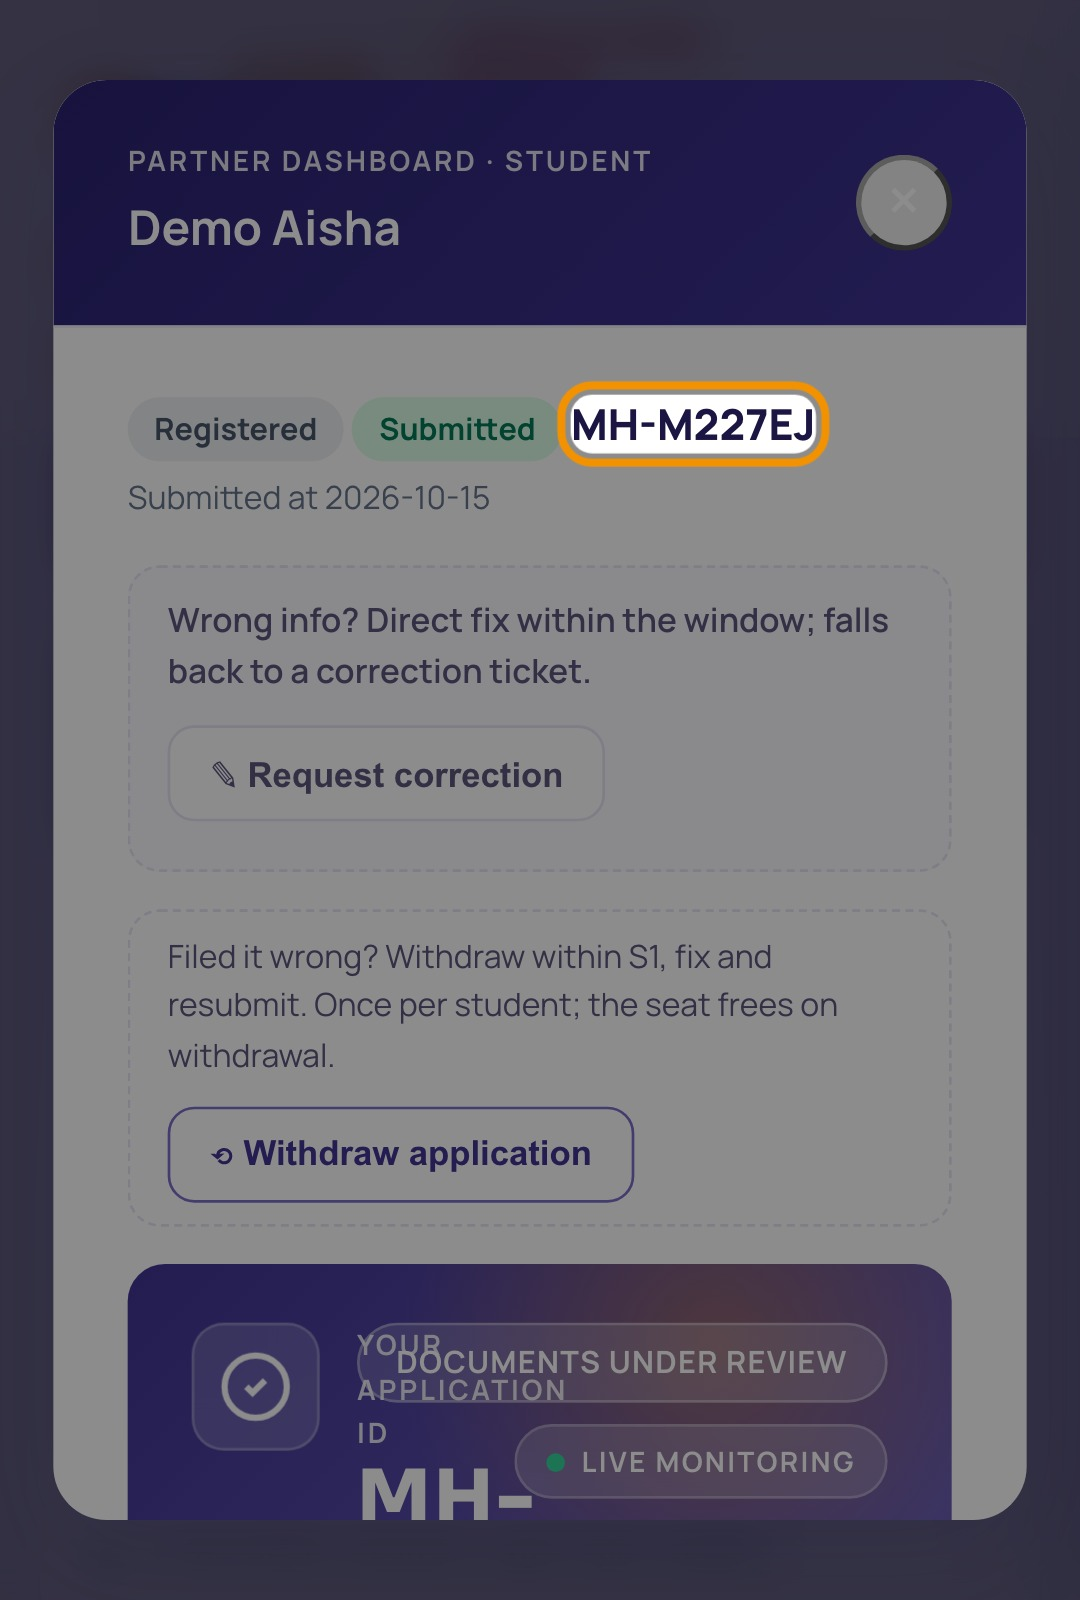
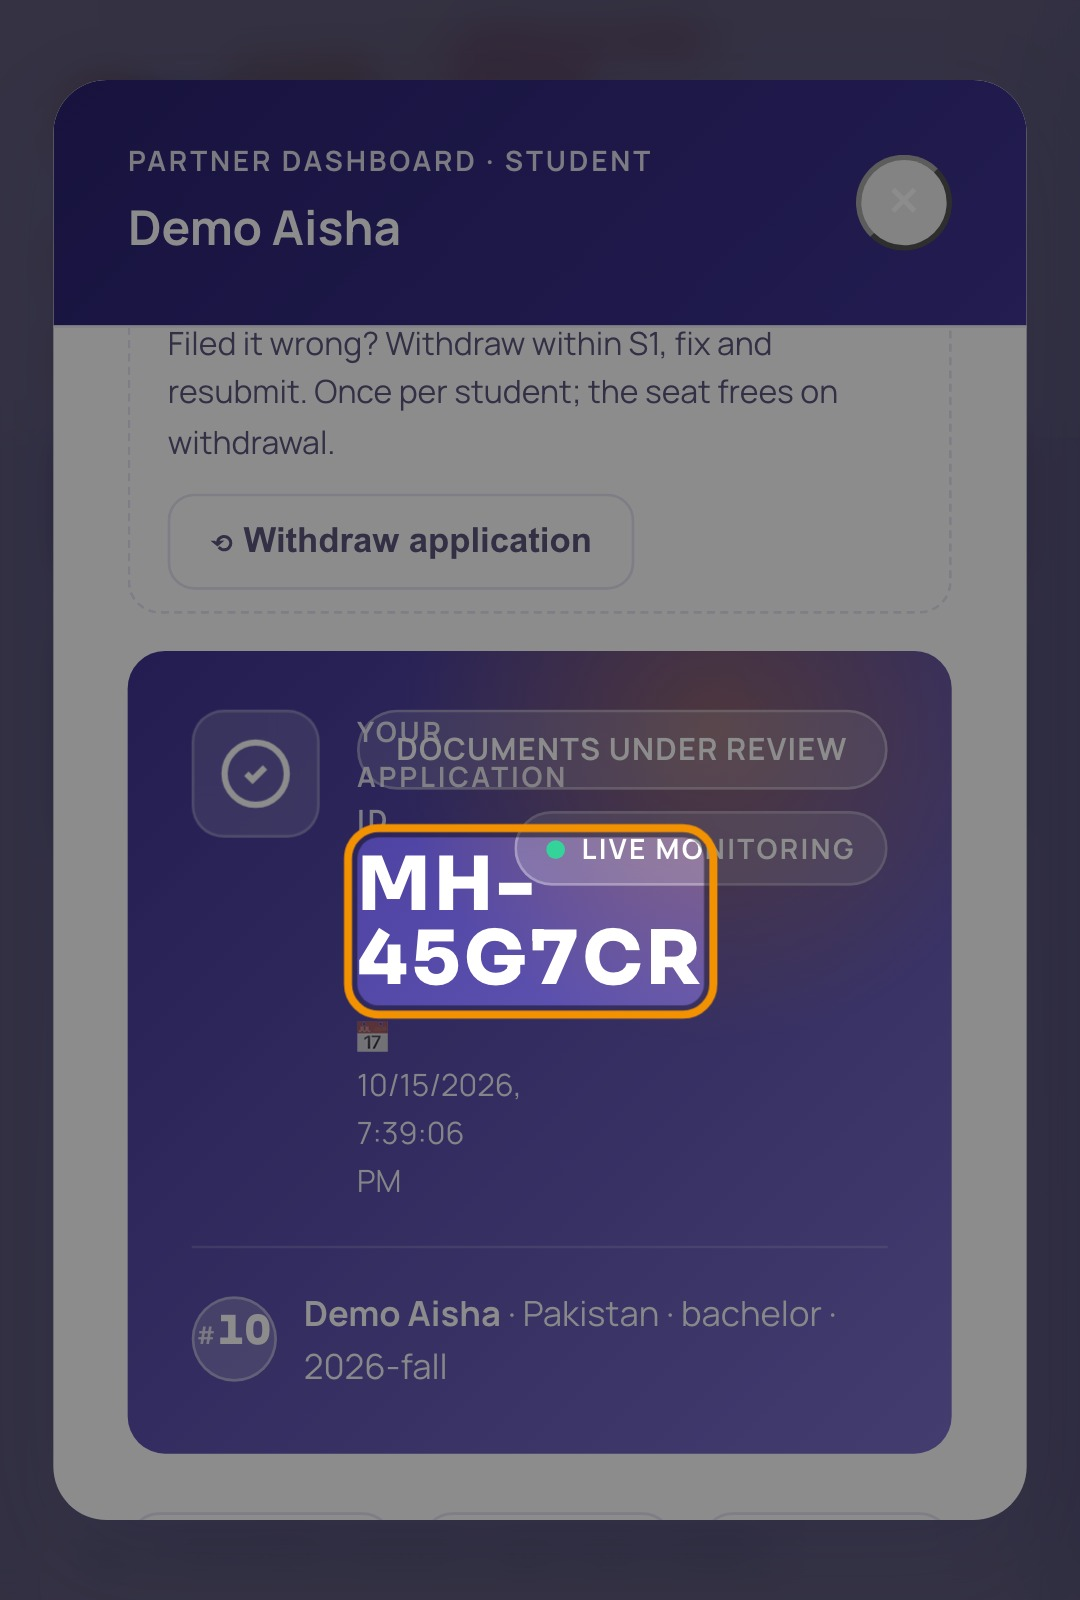
JOB-GP3-02 第13趟回执：裁决f+g返工修复+重合成段——字幕带两档字号不截断(392/392)+3-8框大pill(en/ru重录9/9)+fr-land 6-1箱内橙测override+全80重合成80/80；证据en/ru 3-8大pill·6-1/6-2成片同步·2-4长句全文

diff --git a/JOB-GP3-PROGRESS.md b/JOB-GP3-PROGRESS.md
@@ -1,4 +1,4 @@
-最后一趟：2026-10-15 19:11 GP-3 到停点二乙：GP3-02 路线丙第 11+12 趟做完——①全闸(§五)全过：剪头定格 408/408 动作保住(+12 对比图)、字幕带规格 48 抽样 0 挂(带高横 140/竖 224、不透明紫、白字加粗)、跟随框 80 章 384 镜 0 超标(暗罩法)、禁用词/PII 276 条 CLEAN、片尾二维码 8 条全解、联络表 80 张；②v5 posters/thumbs/cover 重出 176 webp；③清单 m/<lang> 两份重建(base 公共根、章→v5/<lang> 带新 md5、trailer→v4，index.html murl 零改)；④上传计划 dry-run：431 对象 379.8MB 全部新建(0 覆盖 v4)；⑤页面 §四：静音键→内联 SVG 两态、版本串 gp2-20261015b、查清默认静音＝工装非页面(源码零 muted/零 autoplay)，页面回归 0 挂；⑥主仓库点名提交 f270e28(未推) guide/partner+jobs/JOB-GP3。写停点二乙请示单(NEEDS_OWNER_DECISION-20261015-1911)，附 4 处残疑(fr-land 6-1 橙测/竖版 3 行/铁律15 肉眼/两处码率海报边际)待业主一句话裁。下趟＝业主传 v5+推页面后 CC 做 GP3-03 线上真验+收官。【第 11+12 趟存档见下】【第 10 趟存档】GP3-02 路线丙第 10 趟做完——建 gp3-derive-v5(film 派生)+gp3-lite-v5(DIST→partner-v5)，重出 v5 整片/分段/lite 四语。整片 8(四语×横竖)、章 lite 80、分段 HD land44/port43+同数 lite、段清单 8 份全出；整片比 v4 短约 60s(剪头生效)、四语横竖全段落 20~40s(唯 ED 尾段有意短)。两处定案：①splitter 改读 recon actualDur 按 scale=mp4/ΣactualDur 比例切(修 D-9-4，clip 累加有音轨漂移 ch7≈0.34s)；②分段收尾改「借镜头平衡」破旧算法的 51.6s 巨段。lite 闸 en/zh/fr 全 PASS、ru 1 CHECK(port seg05 223k 边际过冲，不阻塞)。下趟：全闸(联络表/禁用词/二维码/PII/字幕带规格/剪头定格对比图/跟随框闸)→清单 m/<lang> 两份(新 md5)+cp gp2-upload.sh 改 v5 前缀 --dry-run→页面 §四两处(静音 SVG+默认有声)+版本串 bump(gp2-20261015b)→停点二乙请示单。【上趟存档】GP3-02 路线丙第 9 趟做完——新引擎重跑全 80 章（--force 分段 chs1-5 重置+chs6-10 追加），80/80 合成成功、时序全过章 80/80、follow 镜 384 超标 0；全 80 recon 统一带 subAbs（例外镜 8=7-0×8、override 镜 16）；双闸统一复测绿（暗罩法 376 常规镜 maxOn≤0.25；橙测 ch7 全 8 变体 7-0/7-1 全过 0.3s）；字幕带学生规格已入引擎烧进成片（视觉验收留业主二乙·铁律15）。查清派生做法并定案一处正确性点：v5 派生 splitter 必须读 recon.json shots[].clipStart/clipEnd 切段（旧 gp1-finish 按原始公式重算会切错点）。下趟：建 gp3-derive-v5+gp3-lite-v5 重出整片/分段/lite→全闸(联络表/禁用词/二维码/PII/字幕带规格/剪头定格清单)→重建 m/清单+上传计划 dry-run→页面 §四两处+版本串 bump→停点二乙。
+最后一趟：2026-10-15 20:05 GP-3：第 13 趟做完裁决 f+g 返工的「修复+重合成」段——①字幕带改两档字号(S1=0.26h/S2=0.21h，去 overflow 裁切)绝不截断，全量闸 392/392 过(成片 recon 复测)、0 截断，5 条收字号 fs=46 全文完整(含业主点名 2-4)；②3-8 大 pill：rec-v2 选框首选结构选择器(不回退文本)，单测 3/3，重录 en/ru ch3 竖各 9/9 过、肉眼橙环框大 pill(DB scoped 复位已清)；③fr-land 6-1 箱内橙测证实唯它真不同步(其余 7 变体 fm 已剪对、不动)，加 override(firstOn 1.786)；④全 80 章重合成 80/80、跟随框 384 镜、暗罩 383/384(唯 ch6-land-fr 6-2 经成片帧证实为暗罩误报·实同步)。下趟＝打包段：派生(整片/分段/lite/海报，须全重出)→其余全闸(剪头定格/禁用词/二维码/PII/联络表)→清单 m/两份→上传计划 --dry-run→页面§四+版本串 gp2-20261015c→重写停点二乙请示单(上张已被 superseded)。【19:11 存档】GP-3 到停点二乙：GP3-02 路线丙第 11+12 趟做完——①全闸(§五)全过：剪头定格 408/408 动作保住(+12 对比图)、字幕带规格 48 抽样 0 挂(带高横 140/竖 224、不透明紫、白字加粗)、跟随框 80 章 384 镜 0 超标(暗罩法)、禁用词/PII 276 条 CLEAN、片尾二维码 8 条全解、联络表 80 张；②v5 posters/thumbs/cover 重出 176 webp；③清单 m/<lang> 两份重建(base 公共根、章→v5/<lang> 带新 md5、trailer→v4，index.html murl 零改)；④上传计划 dry-run：431 对象 379.8MB 全部新建(0 覆盖 v4)；⑤页面 §四：静音键→内联 SVG 两态、版本串 gp2-20261015b、查清默认静音＝工装非页面(源码零 muted/零 autoplay)，页面回归 0 挂；⑥主仓库点名提交 f270e28(未推) guide/partner+jobs/JOB-GP3。写停点二乙请示单(NEEDS_OWNER_DECISION-20261015-1911)，附 4 处残疑(fr-land 6-1 橙测/竖版 3 行/铁律15 肉眼/两处码率海报边际)待业主一句话裁。下趟＝业主传 v5+推页面后 CC 做 GP3-03 线上真验+收官。【第 11+12 趟存档见下】【第 10 趟存档】GP3-02 路线丙第 10 趟做完——建 gp3-derive-v5(film 派生)+gp3-lite-v5(DIST→partner-v5)，重出 v5 整片/分段/lite 四语。整片 8(四语×横竖)、章 lite 80、分段 HD land44/port43+同数 lite、段清单 8 份全出；整片比 v4 短约 60s(剪头生效)、四语横竖全段落 20~40s(唯 ED 尾段有意短)。两处定案：①splitter 改读 recon actualDur 按 scale=mp4/ΣactualDur 比例切(修 D-9-4，clip 累加有音轨漂移 ch7≈0.34s)；②分段收尾改「借镜头平衡」破旧算法的 51.6s 巨段。lite 闸 en/zh/fr 全 PASS、ru 1 CHECK(port seg05 223k 边际过冲，不阻塞)。下趟：全闸(联络表/禁用词/二维码/PII/字幕带规格/剪头定格对比图/跟随框闸)→清单 m/<lang> 两份(新 md5)+cp gp2-upload.sh 改 v5 前缀 --dry-run→页面 §四两处(静音 SVG+默认有声)+版本串 bump(gp2-20261015b)→停点二乙请示单。【上趟存档】GP3-02 路线丙第 9 趟做完——新引擎重跑全 80 章（--force 分段 chs1-5 重置+chs6-10 追加），80/80 合成成功、时序全过章 80/80、follow 镜 384 超标 0；全 80 recon 统一带 subAbs（例外镜 8=7-0×8、override 镜 16）；双闸统一复测绿（暗罩法 376 常规镜 maxOn≤0.25；橙测 ch7 全 8 变体 7-0/7-1 全过 0.3s）；字幕带学生规格已入引擎烧进成片（视觉验收留业主二乙·铁律15）。查清派生做法并定案一处正确性点：v5 派生 splitter 必须读 recon.json shots[].clipStart/clipEnd 切段（旧 gp1-finish 按原始公式重算会切错点）。下趟：建 gp3-derive-v5+gp3-lite-v5 重出整片/分段/lite→全闸(联络表/禁用词/二维码/PII/字幕带规格/剪头定格清单)→重建 m/清单+上传计划 dry-run→页面 §四两处+版本串 bump→停点二乙。
 
 【第 7 趟存档】GP3-02 路线丙第 7 趟——prod-ch-v5 接重录帧来源切换 + 多态拼章（ch5），全 80 章重合成到暂存 ~/guide/dist/partner-v5（不碰 v4）并逐章跑跟随框闸。结果 80/80 合成成功、318/392 镜实测过 0.3s 闸（甲对齐在环可清晰测得处全修好，对照原始 385/392 超标）；实测超标仅 3 镜全是 ch7-land-en/fr/ru 的 7-0（¥0 优惠码镜，onDelay 1.2~1.83）。根因：7-0 橙框框的是优惠码生效后才出现的「¥0」，橙环真在字幕起~1.8s 后才亮＝真不同步；followmeasure 暗罩法把 firstOn 误定在弹窗变暗瞬间而非橙环亮起。7-0 正是 RULING-e §一.2 预授权例外（字幕述头部动作、框高亮结果→不剪头+字幕延后到环亮）。74 解析镜（测量盲）集中在弹窗镜，ch6/7/8 疑同样被掩盖同类病。属自处理项（§二+§一.2），非停点。下趟：橙色像素法测环亮→实现 §一.2 例外→复核解析镜→派生+全闸+v5上传计划 dry-run+页面两处→停点二乙。
 
@@ -16,6 +16,8 @@
       · 待办(下趟)：全闸(联络表/禁用词/二维码/PII/字幕带规格/剪头定格清单最差12对比图)→重建 m/<lang> 两份清单(新 md5)+cp gp2-upload.sh 改 v5 前缀出上传计划 --dry-run→页面 §四两处(静音 emoji→内联 SVG 两态+查默认静音源保证点章有声)+版本串 bump(gp2-20261015b)→停点二乙请示单
       · 派生正确性点(第9趟定案)：gp1-finish splitChapter/chapterShotDurs 用 prod-ch 原始公式重算镜时长按 total/recon 比例切段；v5 章因剪头/定格真实镜时长已变→旧公式切错点。正解＝读 recon.json shots[].clipStart/clipEnd(实测已存在)。OP/ED 复用 REC/out/_book 不改；trailer 及派生/分享图不动、清单指 v4
       · online-01 控制条图 16 张已拍 / followmeasure.json 全量已出 / 留记 ru 3-8 框元素 + fr-land 6-1 残疑待二乙裁
+      · 【第 13 趟·裁决 f+g 返工·修复+重合成段】①字幕带去 overflow 截断→两档字号(S1=0.26h/S2=0.21h、行高1.12、不丢字)，新全量闸 gp3-subband-gate2 成片 recon 复测 392/392 过·0 截断·5 条 fs=46 全文完整(含点名 2-4)；②rec-v2 _resolve 首选结构(不回退 text=)修 3-8，单测 3/3+_unit-union 2/2，重录 en/ru ch3 竖各 9/9、肉眼框大 pill(DB scoped 已清)；③ring-inbox-v5 箱内橙测证唯 fr-land 6-1 真不同步(其余 7 变体 fm 已剪对)→只 override fr-land-ch6/6-1(firstOn1.786)；④全 80 重合成 80/80、follow 384、暗罩 383/384(ch6-land-fr 6-2 经成片帧证为暗罩误报·实同步)。改源码 overlays-v5/prod-ch-v5/rec-v2/verify-ring-composite(+boxfrac)；证据 shots/GP3/{rec3-v2 en|ru 3-8,followbox-v5 6-1/6-2,subband2 2-4}
+      · 待办(下趟·打包段)：派生(整片/分段/lite/海报缩略封面，按新 80 章全重出——旧派生是 pre-fix 的作废)→其余全闸(剪头定格清单/禁用词/二维码/无PII/联络表)→清单 m/<lang> 两份(新 md5)→cp gp2-upload.sh 出 v5 上传计划 --dry-run→页面§四两处(静音 SVG+版本串 gp2-20261015c)→**重写**停点二乙请示单(上张已被 superseded，按 RULING-g 返工后重开)
 - [ ] GP3-03 线上真验 + 收官
 
 ## 已停点二甲（等业主本地验收 + 推页面）

diff --git a/JOB-GP3-02-rework-fg.md b/JOB-GP3-02-rework-fg.md
@@ -1,0 +1,37 @@
+# JOB-GP3-02 第 13 趟回执 · 裁决 f+g 返工：字幕带不截断 + 3-8 大 pill + fr-land 6-1 + 全 80 重合成
+
+日期：2026-10-15（接停点二乙后业主装 RULING-20261015f + g 两单返工）
+归属：GP3-02 修成片。线上：未推主仓、未传删 R2、未碰 Cloudflare（全在本机准备）。
+
+## 这趟做了什么（大白话）
+业主看了上次备好的成片，装了两张裁决单叫返工三件事，这趟把三件都改好、又把 80 条章节视频整套重新合成了一遍。
+
+### ① 字幕带不再把长句截掉（RULING-g §1，最要紧）
+- 病根：上版字幕带为了放大字号用了「超出就裁掉」(overflow:hidden)，长字幕第 4 行以后的话被切没了（如 ch2 竖版「已发录取通知书、录取完成。」整句丢失）。上次的「字幕带规格闸」只数了行数、没查全文在不在，所以是假过。
+- 改法（overlays-v5）：去掉裁切，改成**两档字号自动选**——先用大字号 S1(带高×0.26)，放不下竖版 3 行/横版 2 行就换副字号 S2(带高×0.21，竖 4/横 3 行)；连 S2 都放不下的极少数再逐 1px 收到刚好放下。**任何情况都不丢字、不省略号**，全文永远完整。
+- 新闸（gp3-subband-gate2）：对**全部 392 条**(章内镜×四语×横竖) 逐条断言「渲染全文==字幕原文、行数达标、带内上下留白≥6px」，**不是抽样**。重合成后按成片 recon 复测＝**392/392 全过、0 截断**。只有 5 条用了收字号(全 fs=46≈S2，全文完整)：2-4/9-2/9-3 的竖版——2-4 正是业主点名的 ch2 竖版长句，现用 4 行完整放下。
+- 证据：~/mh-jobs/shots/GP3/subband2/ch2-port-zh-2-4-fulltext.png（成片帧，长句四行全在）。
+
+### ② 第 3 章「申请编号」四语都框大号 pill（RULING-f §2）
+- 病根：选框代码遇到大号申请编号 pill 在解析瞬间还没排好版(宽度≈0)，就回退去按文字找，结果 en/ru 框到了顶部状态条（不是那个大 pill）。zh/fr 当时正好框对了。
+- 改法（rec-v2 选框解析）：首选的结构选择器只要页面里存在就优先用它（哪怕暂时没排好版/不在视口），不再因此回退到文字匹配；配合滚到中心+等版面稳定。单元测试 3/3 过、原半框单测仍 2/2 过（无回归）。
+- 只重录 **en、ru** 两条第 3 章竖版（zh/fr 已对、不重录）。每条走授权的 scoped 流程：清场→录（含一次真提交演示生）→打测试标→清回 0→复测。数据库末态干净（ch3 演示生 0 行、pt-01 基线草稿已还原）。复测：en 9/9 过、ru 9/9 过（最大误差 0.11s，第 1~7 镜无回归）。
+- 证据：shots/GP3/rec3-v2/en|ru-port-ch3-38-firstOn.jpg——橙环完整框住大号申请编号 pill（演示生 Demo Aisha / 演示编号，无真人信息）。
+
+### ③ fr-land 第 6 章「收到多校录取」第 1 镜对齐（RULING-g §2）
+- 用业主指定的「箱内橙测」（只在那一镜选框范围内数橙环像素，避开页面别处橙色）+ 肉眼帧确认：这一镜的「录取卡」其实是 ~1.79s 才真正出现并亮橙环（开头 1.7s 还停在上一个学生详情弹窗）。
+- 八个变体里**只有 fr-land** 的旧暗罩测量把亮起时刻误判成 0.08s → 没剪头 → 成片里字幕先说、框 1.79s 后才亮＝真不同步（就是业主看到的）。其余 7 个变体旧测量给的是 2.3~2.5s（比真环还晚）→ 已经剪到「环起即亮」，本就同步，不动它们（守裁决 scope + 业主看全片只点名 fr-land）。
+- 只给 **fr-land-ch6/6-1** 加了一条 ring-override（firstOn 1.786）。重合成后肉眼复核成片：6-1 开头就是录取卡+橙环+对应字幕＝对上了。
+- 6-2/6-3/6-7 的箱内「延迟」经肉眼证伪＝小框薄环的测量伪影（那几镜内容+环本就在），维持前趟「环全程亮·不动」。
+
+### ④ 全 80 章重合成（三项改动都要重出成片）
+- 字幕带改了、en/ru 第 3 章竖版换了新帧、6-1 加了 override——每条章节成片都要重出。
+- 结果：**80/80 合成成功**、跟随框时序 384 镜、暗罩闸 383/384 过；唯一标红 ch6-land-fr:6-2 经肉眼成片帧证实是**暗罩法误报**（6-1 剪头后时间轴前移触发该弹窗镜的暗罩老毛病；成片里 6-2 橙环在字幕起就亮＝同步，证据 shots/GP3/followbox-v5/ch6-land-fr-6-2-composite-ringon.jpg）。
+- 6-1 同步证据：shots/GP3/followbox-v5/ch6-land-fr-6-1-composite-ringon.jpg。
+
+## 没做什么（留下趟 = 本返工的「打包段」）
+派生（整片/分段/lite/海报缩略封面，须按新 80 章重出，旧派生是上趟 pre-fix 的要全重跑）→ 其余全闸（剪头定格清单 / 禁用词 / 二维码 / 无 PII / 联络表）→ 清单 m/<lang> 两份（新 md5）→ cp gp2-upload.sh 出 v5 上传计划 --dry-run → 页面 §四两处 + 版本串 bump（gp2-20261015c）→ **重写**停点二乙请示单（标题含「GP3-02 成片已备好」；上张已被业主归档 superseded，按 RULING-g 返工后重开一张）。
+
+## 红线自查
+改源码＝overlays-v5 / prod-ch-v5 / rec-v2 / verify-ring-composite-v5(+箱内 --boxfrac)；新脚本 gp3-subband-gate2 / ring-inbox-v5 / rec2/_unit-resolve；ring-override.json +1 条。录制帧与成片落仓库外/不入 git；DB 仅 scoped 演示态复位（授权 RULING-f §2 / g §3），其余只读走 db-run.sh；未改端口/首页/guide 既有文件、未推主仓、未传删 R2、未碰 Cloudflare。
+决定：D-GP3-13-1 ~ D-GP3-13-6（见 JOB-GP3-decisions.md）。

diff --git a/JOB-GP3-decisions.md b/JOB-GP3-decisions.md
@@ -112,3 +112,11 @@
 - **D-GP3-12-6** · 【上传计划只含新 v5 对象 + 纯净 v4 快照防双 reparent】gp3-upload.sh（cp gp2-upload.sh，PLAN→gp3-upload-plan.tsv）。gp3-manifest-v5 读 trailer/标题取自 `jobs/JOB-GP3/v4-manifests-src/`（开跑前 cp 的纯净 v4 清单快照），避免重跑时读到已被覆盖成 v5 的 m/ 导致 `v4/<lang>/v4/…` 双 reparent。dry-run：**431 对象 / 379.8MB，全部新建（0 已在 / 0 覆盖）**＝v5 前缀与 v4 零碰撞、不覆盖 v4。
 - **D-GP3-12-7** · 【到停点二乙】全闸过（唯 fr-land 6-1 橙测残疑 + 字幕带竖版 3 行 + 视觉铁律15 列业主）、派生/posters/清单/上传计划/页面§四 全备——属任务书两停点之一「成片与页面备好」。写请示单（标题含「GP3-02 成片已备好」）停，等业主卡传 v5 + 推页面。CC 本机已点名提交（未推）guide/partner + jobs/JOB-GP3。
 - **D-GP3-12-8** · 【未碰红线】只读 partner-v5 + v4 清单快照；写出＝guide/partner/m/<lang>/ 两清单 + guide/partner/index.html(§四) + jobs/JOB-GP3 工装；posters/webp 落 partner-v5（仓库外）；未传删 R2（只 dry-run HEAD 只读探测）、未推主仓、未碰 Cloudflare、未动库。
+
+## 第 13 趟（2026-10-15）——裁决 f+g 返工：字幕带不截断 + 3-8 大 pill + fr-land 6-1
+- **D-GP3-13-1** · 【字幕带两档字号·绝不截断（RULING-g §1）】overlays-v5.subtitle 改测量驱动：去掉 `overflow:hidden`+`max-height`（截断病根）；S1=0.26×带高，按 S1 折行若 竖≤3/横≤2 行且 blockH≤带高−12 → 用 S1；否则 S2=0.21×带高（竖≤4/横≤3）；连 S2 也溢出则从 S2 逐 1px 收到能放下的最大字号标 shrink。行高 SUB_LH=1.12（使 S2 竖版 4 行在 224 带内 + 上下各 ≥6px 自洽）。只有两档基准；span 恒含全文、无裁剪。新增 `decideSubtitle` 导出供闸复用（闸测的＝成片渲染的同一决策）。
+- **D-GP3-13-2** · 【字幕带全量闸取代第 11 趟假闸（RULING-g §1）】gp3-subband-gate2.mjs：逐条断言「span 全文==字幕全文（不丢字）、行数≤上限、blockH≤带高−12（留白≥6px）」，不是抽样。重合成前自检（章内镜 N-M 枚举，排除 OP-*/ED-* 满屏卡）＝**392/392 全过、0 截断**；档位 S1 379 / S2 8 / shrink 5。shrink 5 条全 fs=46（≈S2，全文完整）：2-4 zh/ru/fr-port、9-2 ru-port、9-3 fr-port（2-4 正是 RULING-g 点名的 ch2 竖版长字幕，现 4 行放全）。重合成后再跑 recon 权威模式复测。
+- **D-GP3-13-3** · 【3-8 大 pill·_resolve 首选结构（RULING-f §2）】rec-v2 `_resolve` 改：首选结构选择器只要 DOM 中存在（即便 width<2 未布局/在视口外）即优先，不再因不可见回退到后面的 text= 子句（病根：en/ru 大 pill resolve 时 width<2 → 回退 `text=/MH-/` 命中顶部状态条）。配合 scrollToSel 滚入中心 + waitStableRect 等 rect 稳定。单测 _unit-resolve.mjs 3/3 过（病象返回 pill、正常不劣化、无结构命中才回退 text=）；_unit-union.mjs 仍 2/2 过（无回归）。
+- **D-GP3-13-4** · 【只重录 en/ru ch3 竖版（RULING-f §2）】zh/fr 已框大 pill 不重录。en/ru 各走 scoped 流程（db-run cleanup→rec-v2 录→mark is_test→cleanup→verify-record），DB 末态净（ch3_left=0、draft=Malik/pt-01）。verify-record：en 9/9 过（maxOn 0.11 maxOff 0.11）、ru 9/9 过（maxOn 0.08 maxOff 0.11），3-1..3-7 无回归。肉眼抽帧证据（shots/GP3/rec3-v2/en|ru-port-ch3-38-firstOn.jpg）：橙环完整框住大号申请编号 pill（en MH-45G7CR / ru BS3M3E），非顶部状态条——四语齐框大 pill。演示生（Demo Aisha / 演示编号），无 PII。
+- **D-GP3-13-5** · 【fr-land 6-1 箱内橙测自定·只 override 它（RULING-g §2）】新 ring-inbox-v5.mjs：只在 hl.box（录制帧坐标，land 3000×1358）外扩 16px 矩形内数橙环 #F39200，避开页面别处橙色。实测 + 肉眼帧确认：6-1 弹窗镜 school-card 在 ~1.79s 才真 reveal 并亮橙环（t=0.3 仍是上一学生详情弹窗、箱内无环）。八变体 in-box firstOn 1.66~2.55。病根：**唯 fr-land fm=0.08（暗罩误定在弹窗变暗瞬间）→ 不剪头 → 成片 onDelay 1.79s 真不同步**；其余 7 变体 fm≈2.3~2.5（＞真环 1.7）→ 已剪头到「环亮在字幕起之前」＝环起始即亮，不同步不成立（且业主看全片只点名 fr-land）。故**只 override fr-land-ch6/6-1（firstOn 1.786/lastOn 6.908）**，其余 7 不碰（守 RULING-g §2 scope + 业主已验收）。6-2/6-3/6-7 的 in-box「延迟」经肉眼证伪＝小框薄环测量伪影（t=7.6 内容+环已在），维持前趟「环全程亮·留 fm」裁决。重合成后用 verify-ring-composite-v5 新增 `--boxfrac`（箱内法·分辨率无关）复测全 8 变体 6-1 成片 ≤0.3 实证。
+- **D-GP3-13-6** · 【未碰红线】改源码＝overlays-v5 / prod-ch-v5(recon 记 sub 档位) / rec-v2(_resolve) / verify-ring-composite-v5(+boxfrac)；新脚本 gp3-subband-gate2 / ring-inbox-v5 / rec2/_unit-resolve；ring-override.json +1 条（fr-land 6-1）。录制帧落 rec2/out（不入 git）；DB 仅 scoped 演示态复位（授权 RULING-f §2/g §3），其余只读走 db-run.sh；未改端口/首页/guide 既有文件、未推主仓、未传删 R2、未碰 Cloudflare。
